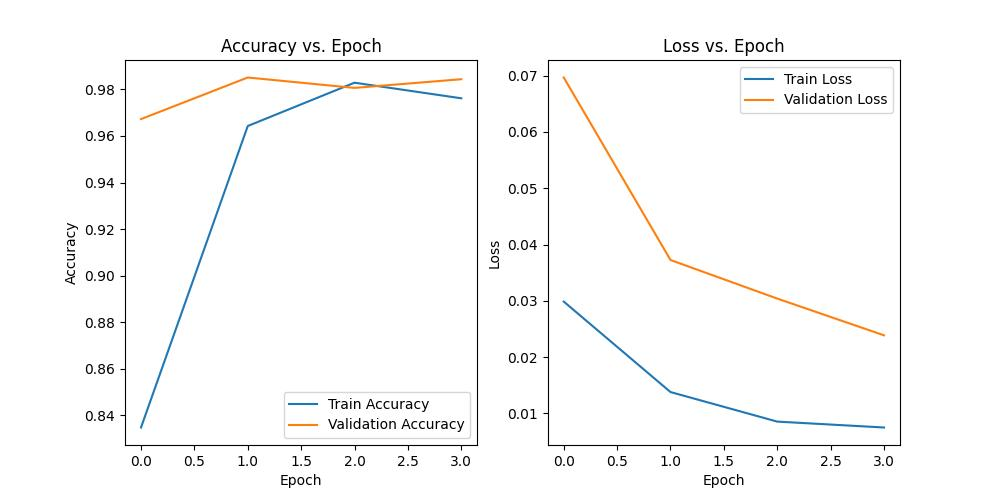
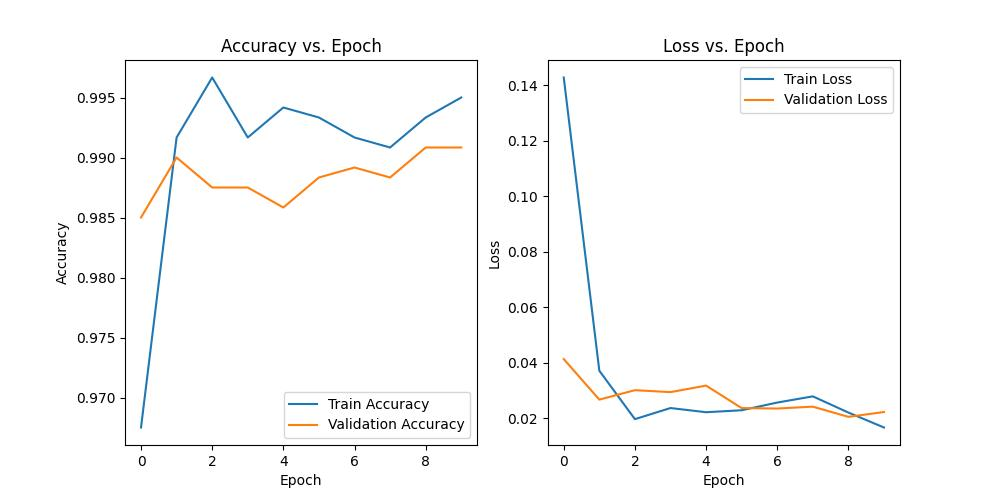
Implementando geracao de metricas vision transformers pytorch

diff --git a/VIT_pytorch_gpu.py b/VIT_pytorch_gpu.py
@@ -12,6 +12,12 @@ from torchvision.datasets import ImageFolder
 from torch.utils.data import DataLoader
 import sys
 import time
+import shutil
+import pandas as pd
+import os
+
+import pytorch_lightning as pl
+from pytorch_lightning.loggers import CSVLogger, TensorBoardLogger
 
 # Devce Data
 print('__Python VERSION:', sys.version)
@@ -24,13 +30,15 @@ print('Active CUDA Device: GPU', torch.cuda.current_device())
 print ('Available devices ', torch.cuda.device_count())
 print ('Current cuda device ', torch.cuda.current_device())
 
+
+
 start_time = time.time()
 # Hyperparameters
 batch_size = 24
 num_epochs = 10
 
 total_steps = 50
-learning_rate = 0.001
+learning_rate = 0.008
 
 
 # Prepare Data
@@ -44,6 +52,11 @@ transform = T.Compose([
 ])
 
 
+if os.path.exists("./lightning_logs/"):
+  shutil.rmtree("./lightning_logs/")
+  
+
+
 # Carregar os dados de treinamento e teste
 train_dataset = torchvision.datasets.ImageFolder(root=train_data_path, transform=transform)
 test_dataset = torchvision.datasets.ImageFolder(root=test_data_path, transform=transform)
@@ -52,126 +65,125 @@ num_classes = len(train_dataset.classes)
 model = ViTForImageClassification.from_pretrained('google/vit-base-patch16-224', num_labels=1, ignore_mismatched_sizes=True)
 
 
-criterion = torch.nn.BCEWithLogitsLoss()
-optimizer = torch.optim.Adam(model.parameters(), lr=learning_rate)
-
 # Device CPU or GPU
 device = torch.device("cuda" if torch.cuda.is_available() else "cpu")
 print(f"\n\n Device ---> {device} and Current Device --> {torch.cuda.current_device()}\n\n")
 
-# Traning the model
-model.to(device)
-print(model)
+class Modelo(pl.LightningModule):
+    def __init__(self):
+        super(Modelo, self).__init__()
+        # Carregar um modelo pré-treinado
+        self.model = model
+        
+        # Congelar os pesos das camadas pré-treinadas
+        for param in self.model.parameters():
+            param.requires_grad = False
+        
+        # Substituir a última camada para um problema binário
+        self.model.classifier = nn.Linear(self.model.config.hidden_size, 1)
 
-# Loop traning
-train_losses = []
-val_losses = []
-train_accuracies = []
-val_accuracies = []
+        # Função de perda
+        self.criterion = nn.BCEWithLogitsLoss()
 
-for epoch in range(num_epochs):
+    def forward(self, x):
+        return self.model(x)
 
-    print("Training")
-  
-    running_loss = 0.0
-    correct_train = 0
-    total_train = 0
-    
-    loss_da_epoch = 0.0
-    accurracy_da_epoch = 0.0
+    def training_step(self, batch, batch_idx):
+        images, labels = batch
+        outputs = self(images).logits
+        loss = self.criterion(outputs, labels.float().unsqueeze(1)) 
+        predicted = torch.round(torch.sigmoid(outputs))
+        accuracy = (predicted == labels.unsqueeze(1)).float().mean()
+                
+        self.log('train_loss', loss, prog_bar=True)
+        self.log("train_accuracy", accuracy, prog_bar=True)
+        return loss
 
+    def validation_step(self, batch, batch_idx):
+        images, labels = batch
+        outputs = self(images).logits 
+        loss = self.criterion(outputs, labels.float().unsqueeze(1)) 
+        predicted = torch.round(torch.sigmoid(outputs))
+        accuracy = (predicted == labels.unsqueeze(1)).float().mean()
+        self.log('val_loss', loss, prog_bar=True)
+        self.log('val_accuracy', accuracy, on_epoch=True, prog_bar=True)
 
-    train_loader = DataLoader(train_dataset, batch_size=batch_size, shuffle=True)
+    def configure_optimizers(self):
+        optimizer = torch.optim.Adam(self.parameters(), lr=1e-3)
+        return optimizer
 
-    # total_steps = len(train_loader)
-    
-    # Training
-    model.train()
-    for step, (images, labels) in enumerate(train_loader):
-      images, labels = images.to(device), labels.to(device)
-      optimizer.zero_grad()
+# Dados
+train_loader = DataLoader(train_dataset, batch_size=batch_size, shuffle=True, num_workers=11)
+val_loader = DataLoader(test_dataset, batch_size=batch_size, num_workers=11)
 
-      outputs = model(images).logits 
-      loss = criterion(outputs, labels.float().unsqueeze(1))
+# Modelo
+modelo = Modelo()
 
-      loss.backward()
-      optimizer.step()
+# Save data progress
+csv_logger = CSVLogger(
+    save_dir='./lightning_logs/',
+    name='csv_file'
+)
 
-      predicted = torch.round(torch.sigmoid(outputs))
-      correct_train = (predicted == labels.unsqueeze(1)).sum().item()
-      total_train = labels.size(0)
-      accuracy = correct_train / total_train
+# Treinador
+trainer = pl.Trainer(max_epochs=num_epochs,  limit_train_batches= total_steps,limit_val_batches=total_steps, log_every_n_steps=1, logger=[csv_logger, TensorBoardLogger("./lightning_logs/")])
 
-      loss_da_epoch += loss.item()
-      accurracy_da_epoch += accuracy
-      train_losses.append(loss_da_epoch/ total_steps)
-      train_accuracies.append(accurracy_da_epoch/ total_steps)
-      
-      
-      print(f'Epoch [{epoch+1}/{num_epochs}], Step [{step+1}/{total_steps}], Loss: {loss.item():.4f}, Accuracy: {accuracy:.4f}')
-      if step == total_steps:
-              print("----------------X------------------")
-              break
+# Treinamento
+trainer.fit(modelo, train_loader, val_loader)
 
-    # Validation each 10 epoch
-    # if (epoch + 1) % 2 == 0:
-    model.eval()
-    running_val_loss = 0.0
-    correct_val = 0
-    total_val = 0
-    
-    loss_val_da_epoch = 0.0
-    accurracy_val_da_epoch = 0.0
-    
-    print("Validation")
-    test_loader = DataLoader(test_dataset, batch_size=batch_size, shuffle=True)
-    with torch.no_grad():
-        for step, (images, labels) in enumerate(test_loader):
-          images, labels = images.to(device), labels.to(device)
+torch.save(modelo.state_dict(), './models/modelo_vit_gpu.pth')
 
-          outputs = model(images).logits
-          loss = criterion(outputs, labels.float().unsqueeze(1))
-
-          predicted = torch.round(torch.sigmoid(outputs))
-          correct_val = (predicted == labels.unsqueeze(1)).sum().item()
-          total_val = labels.size(0)
-          accuracy_val = correct_val / total_val
-
-          loss_val_da_epoch += loss.item()
-          accurracy_val_da_epoch += accuracy_val
-
-          print(f'Epoch [{epoch+1}/{num_epochs}], Step [{step+1}/{total_steps}], Loss Validation: {loss.item():.4f}, Accuracy Validation: {accuracy_val:.4f}')
-          if step == total_steps:
-              print("----------------X------------------")
-              break
-
-    val_losses.append(loss_val_da_epoch/ total_steps)
-    val_accuracies.append(accurracy_val_da_epoch/ total_steps)
-    print(f'Epoch [{epoch+1}/{num_epochs}], Train Loss: {loss_da_epoch/ total_steps:.4f}, Train Accuracy: {accurracy_da_epoch/ total_steps:.4f}, Validation Loss: {(loss_val_da_epoch/ total_steps):.4f}, Validation Accuracy: {accurracy_val_da_epoch/ total_steps:.4f}')
-
-    # print("Tamanho das saídas:", outputs.size())
-    # predicted = torch.round(torch.sigmoid(outputs))
-    # print("Saídas binárias:", predicted)
-    # print("Tamanho dos rótulos:", labels.size())
-
-
-torch.save(model.state_dict(), './models/modelo_vit_gpu.pth')
+df = pd.read_csv('./lightning_logs/csv_file/version_0/metrics.csv')
 
 print("\n\n  %s minutos" % ((time.time() - start_time) / 60 ))
+
+
+# Data man
+epochs = []
+train_accuracy_means = []
+train_loss_means = []
+val_accuracy_uniques = []
+val_loss_uniques = []
+
+for epoch in df['epoch'].unique():
+    dados_epoca = df[df['epoch'] == epoch]
+    
+    train_accuracy_mean = dados_epoca['train_accuracy'].mean()
+    
+    train_loss_mean = dados_epoca['train_loss'].mean()
+    
+    val_accuracy_unique = dados_epoca['val_accuracy'].mean()
+    
+    val_loss_unique = dados_epoca['val_loss'].mean()
+    
+    epochs.append(epoch)
+    train_accuracy_means.append(train_accuracy_mean)
+    val_accuracy_uniques.append(val_accuracy_unique)
+    train_loss_means.append(train_loss_mean)
+    val_loss_uniques.append(val_loss_unique)
+    
+    
+resultados =pd.DataFrame({'epoch': epochs,
+                                'train_accuracy': train_accuracy_means,
+                                'val_accuracy': val_accuracy_uniques,
+                                'train_loss': train_loss_means,
+                                'val_loss': val_loss_uniques,                                    
+                                },
+                              )
 
 # Save graphs
 plt.figure(figsize=(10, 5))
 plt.subplot(1, 2, 1)
-plt.plot(train_accuracies, label='Train Accuracy')
-plt.plot(val_accuracies, label='Validation Accuracy')
+plt.plot(resultados['epoch'], resultados['train_accuracy'], label='Train Accuracy')
+plt.plot(resultados['epoch'], resultados['val_accuracy'], label='Validation Accuracy')
 plt.xlabel('Epoch')
 plt.ylabel('Accuracy')
 plt.title('Accuracy vs. Epoch')
 plt.legend()
 
 plt.subplot(1, 2, 2)
-plt.plot(train_losses, label='Train Loss')
-plt.plot(val_losses, label='Validation Loss')
+plt.plot(resultados['epoch'], resultados['train_loss'], label='Train Loss')
+plt.plot(resultados['epoch'], resultados['val_loss'], label='Validation Loss')
 plt.xlabel('Epoch')
 plt.ylabel('Loss')
 plt.title('Loss vs. Epoch')
